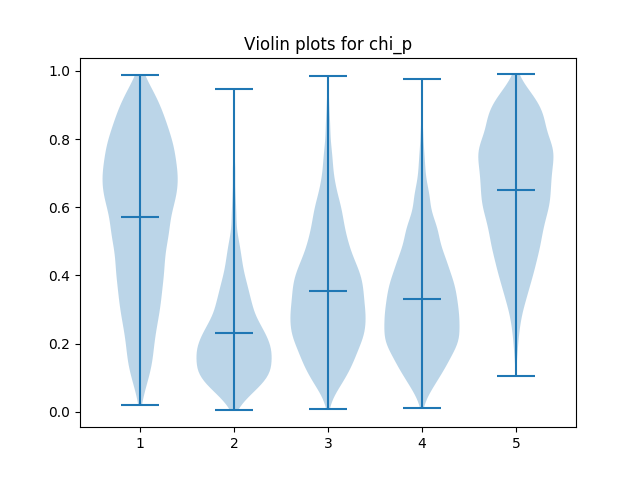
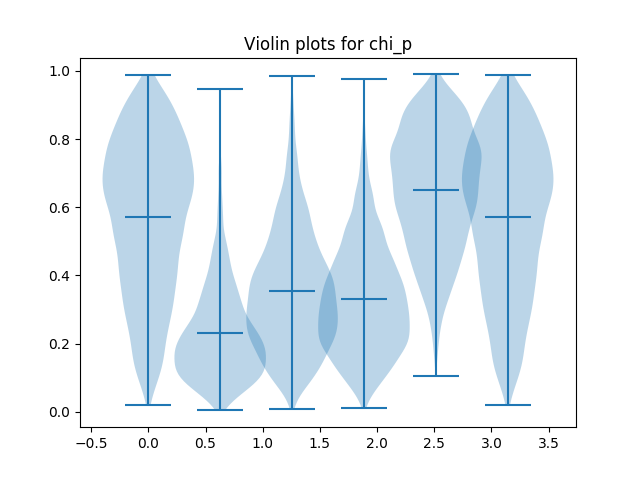
Violin latest

diff --git a/Inference/violins.py b/Inference/violins.py
@@ -214,20 +214,18 @@ def getPosterior(parameter,folder):
    parameter_values=np.sort(parameter_values)
    return parameter_values
 
-## Will need to loop over hdf folders
-## go a little something like
-
+xaxis=np.linspace(0,np.pi,6)
 def violinMe(parameter,pref):
    print "Extracting data for %s" % parameter
    out=[]
-   for x_sample in range(1,6): ## Loop over samples of the x axis
+   for x_sample in [1,2,3,4,5,1]: ## Loop over samples of the x axis
       thisFolder=pref+str(x_sample)  ## Select specific folder for this sample
       posterior=getPosterior(parameter,thisFolder) ## Extract desired posterior from the hdf file
       print "   ---%s completed" % thisFolder
       out.append(posterior)
    plt.figure()
    plt.title("Violin plots for %s" % parameter)
-   plt.violinplot(out,showmeans=True,widths=0.8)
+   plt.violinplot(out,xaxis,showmeans=True,widths=0.8)
    plt.savefig("figures/%sviolins_%s.png" % (pref, parameter))
    print "--Figure saved--"
 
